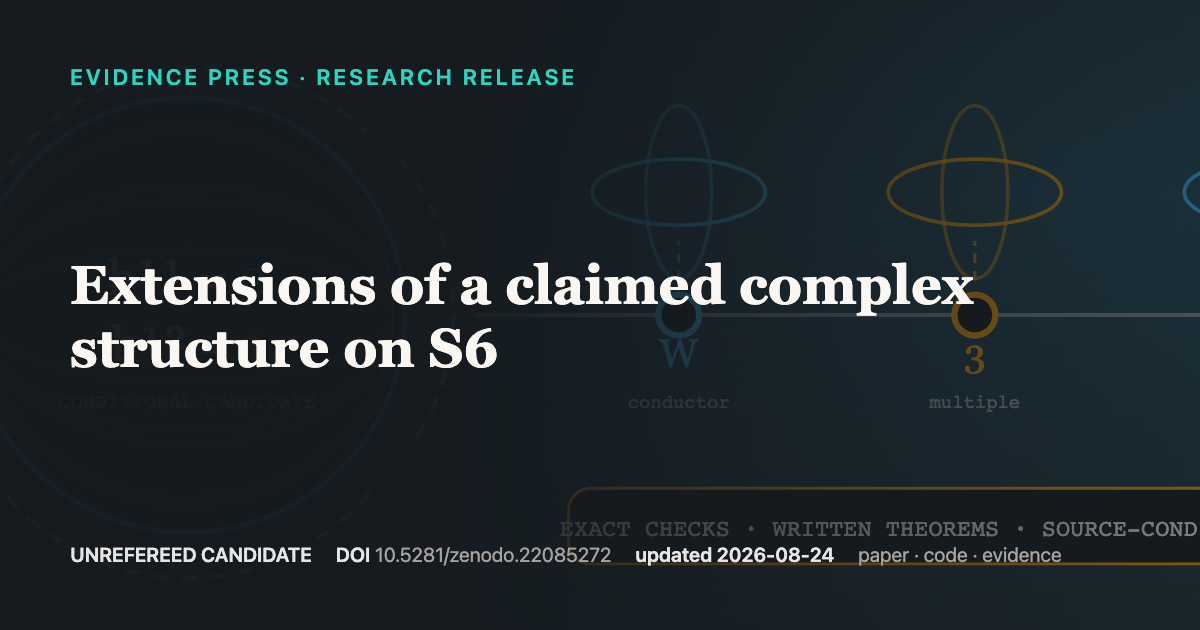
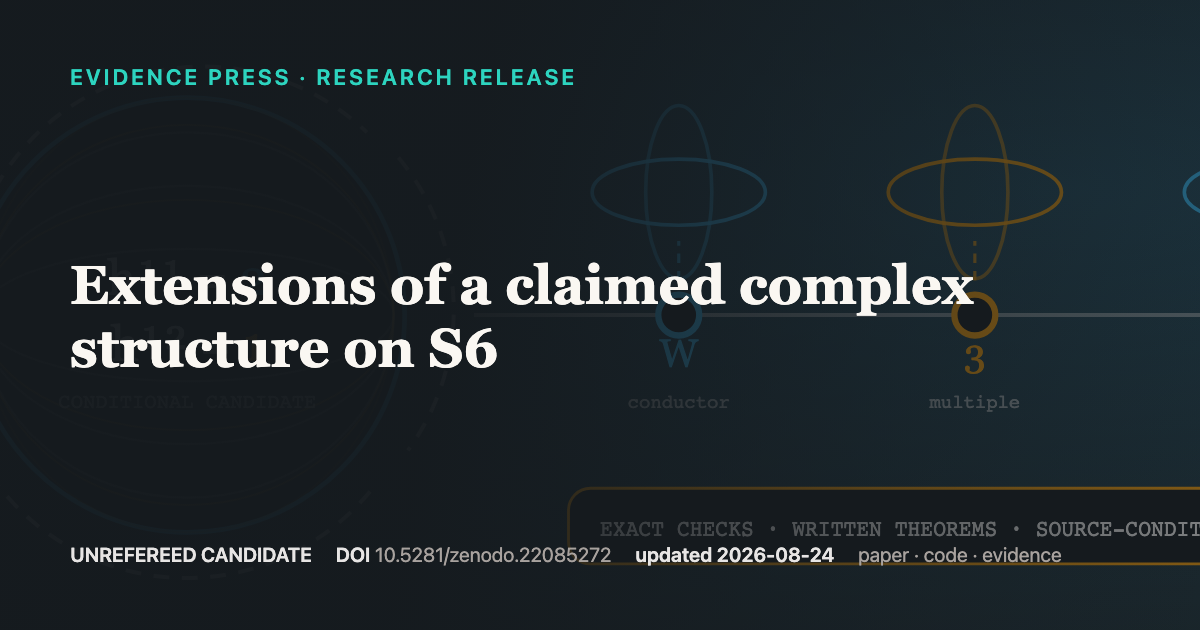
Repair S6 release presentation

Changed region(s): [[0.4625, 0.8143, 0.8325, 0.8746], [0.8633, 0.8143, 1.0, 0.8746]]

diff --git a/tools/test-metadata.js b/tools/test-metadata.js
@@ -78,6 +78,15 @@ check('every release hero art URL is bound to the exact committed SVG bytes',
     return paper.coverArtUrl === `https://evidencepress.org${expectedPath}` &&
       releaseHtml.includes(`<img src="${expectedPath}" alt="" loading="eager">`);
   }));
+const s6Art = fs.readFileSync(path.join(ROOT, 'assets', 'art', 's6-extension-results-candidate.svg'), 'utf8');
+const s6ClaimBand = s6Art.match(/<rect id="s6-claim-band"[^>]*>/)?.[0];
+const s6ClaimText = s6Art.match(/<text id="s6-claim-band-text"[^>]*>/)?.[0];
+const svgNumberAttribute = (element, name) => Number(element?.match(new RegExp(`\\s${name}="([0-9.]+)"`))?.[1]);
+const s6ClaimBandWidth = svgNumberAttribute(s6ClaimBand, 'width');
+const s6ClaimTextLength = svgNumberAttribute(s6ClaimText, 'textLength');
+check('S6 hero claim text stays inside its surrounding panel',
+  Number.isFinite(s6ClaimBandWidth) && Number.isFinite(s6ClaimTextLength) && s6ClaimTextLength <= s6ClaimBandWidth - 40,
+  `panel width=${s6ClaimBandWidth || 'missing'} text length=${s6ClaimTextLength || 'missing'}`);
 
 /* ------------------------------------------------------- mini JSON Schema */
 /* Covers exactly the keywords the published schema uses. Anything unknown is

diff --git a/tools/make-art.js b/tools/make-art.js
@@ -961,8 +961,8 @@ art['s6-extension-results-candidate'] = (a, b) => {
     s += `<text x="${x}" y="233" text-anchor="middle" font-family="Georgia" font-size="25" fill="${colour}">${label}</text>`;
     s += `<text x="${x}" y="259" text-anchor="middle" font-family="ui-monospace,monospace" font-size="12" fill="#e7e5e4" opacity=".62">${detail}</text>`;
   }
-  s += `<rect x="580" y="310" width="520" height="48" rx="14" fill="#151a1e" stroke="${b}" stroke-width="1.8" opacity=".96"/>`;
-  s += `<text x="840" y="340" text-anchor="middle" font-family="ui-monospace,monospace" font-size="15" fill="#e7e5e4">EXACT CHECKS · WRITTEN THEOREMS · SOURCE-CONDITIONAL CLAIMS</text>`;
+  s += `<rect id="s6-claim-band" x="580" y="310" width="520" height="48" rx="14" fill="#151a1e" stroke="${b}" stroke-width="1.8" opacity=".96"/>`;
+  s += `<text id="s6-claim-band-text" x="840" y="340" text-anchor="middle" textLength="480" lengthAdjust="spacingAndGlyphs" font-family="ui-monospace,monospace" font-size="15" fill="#e7e5e4">EXACT CHECKS · WRITTEN THEOREMS · SOURCE-CONDITIONAL CLAIMS</text>`;
   return s;
 };
 

diff --git a/tools/test-release-pages.js b/tools/test-release-pages.js
@@ -50,6 +50,9 @@ for (const directory of fs.readdirSync(PAPERS).sort()) {
     names.set(heading.id, true);
   }
 
+  if (slug === 's6-extension-results-candidate' && headings.some(heading => heading.id === 'the-five-year-old-picture'))
+    errors.push(`${slug}: body.md contains the unapproved heading "The five-year-old picture"`);
+
   if (/\bIan Pitchford\b/i.test(body) && !(meta.pageStructureWaivers || []).includes('historical-personal-attribution-in-body'))
     errors.push(`${slug}: reader body contains routine personal operational attribution`);
   if (/\bIan Pitchford\b/i.test(meta.narration || '') && !(meta.pageStructureWaivers || []).includes('historical-personal-attribution-in-narration'))

diff --git a/papers/s6-extension-results-candidate/body.md b/papers/s6-extension-results-candidate/body.md
@@ -19,16 +19,6 @@ together with proposed tangent-cohomology dimensions $h^q(X,T_X)=(1,1,1,0)$ and 
 
 > **Candidate status:** Anonymous · unrefereed · exact arithmetic and symbolic replay passed · written theorem layer broader than computation · global source construction unverified · independent reconstruction, formal verification, external specialist review and editorial peer review not assessed.
 
-## The five-year-old picture
-
-Imagine somebody has drawn instructions for building an extraordinary toy globe. They say that when all the pieces are joined, the globe is an ordinary six-dimensional sphere, but it also has a special “complex” pattern.
-
-This release does not rebuild the entire globe. Instead, it checks many of the smaller gears, works out what several dials would read if the globe really fits together, and finds one especially important joint for another expert to inspect.
-
-Some gear checks use exact arithmetic and can be replayed by a computer. The Hodge-number and deformation readings depend on the big globe actually existing as described. The conductor–adjoint criterion is a smaller mathematical part that can be inspected without accepting the whole globe first.
-
-So the honest conclusion is: **many interesting extension calculations are now explicit and testable, but the central sphere claim is still a gate, not a theorem established by this release.**
-
 ## What the strongest-directions programme achieved
 
 The original research map froze two layers of the proposed construction and varied a third. It gave three directions highest priority.
